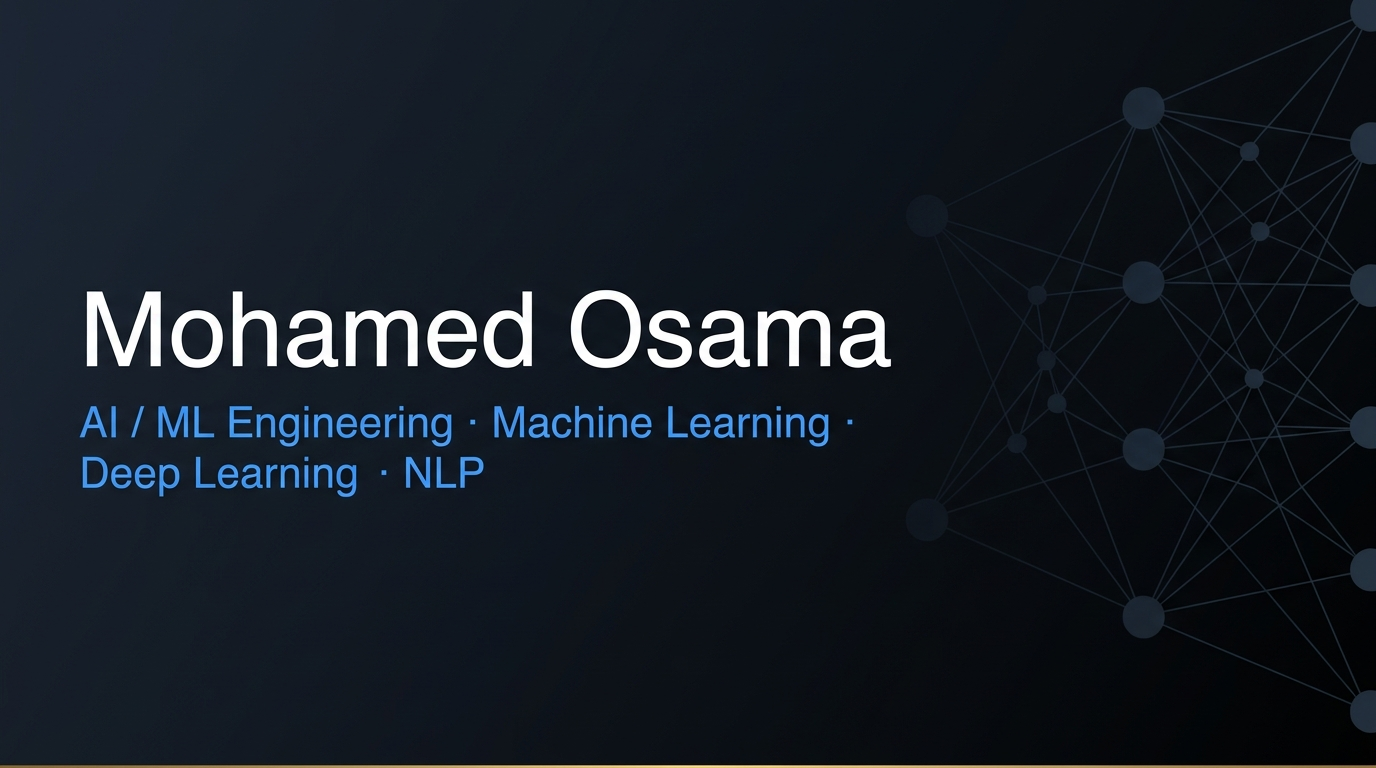
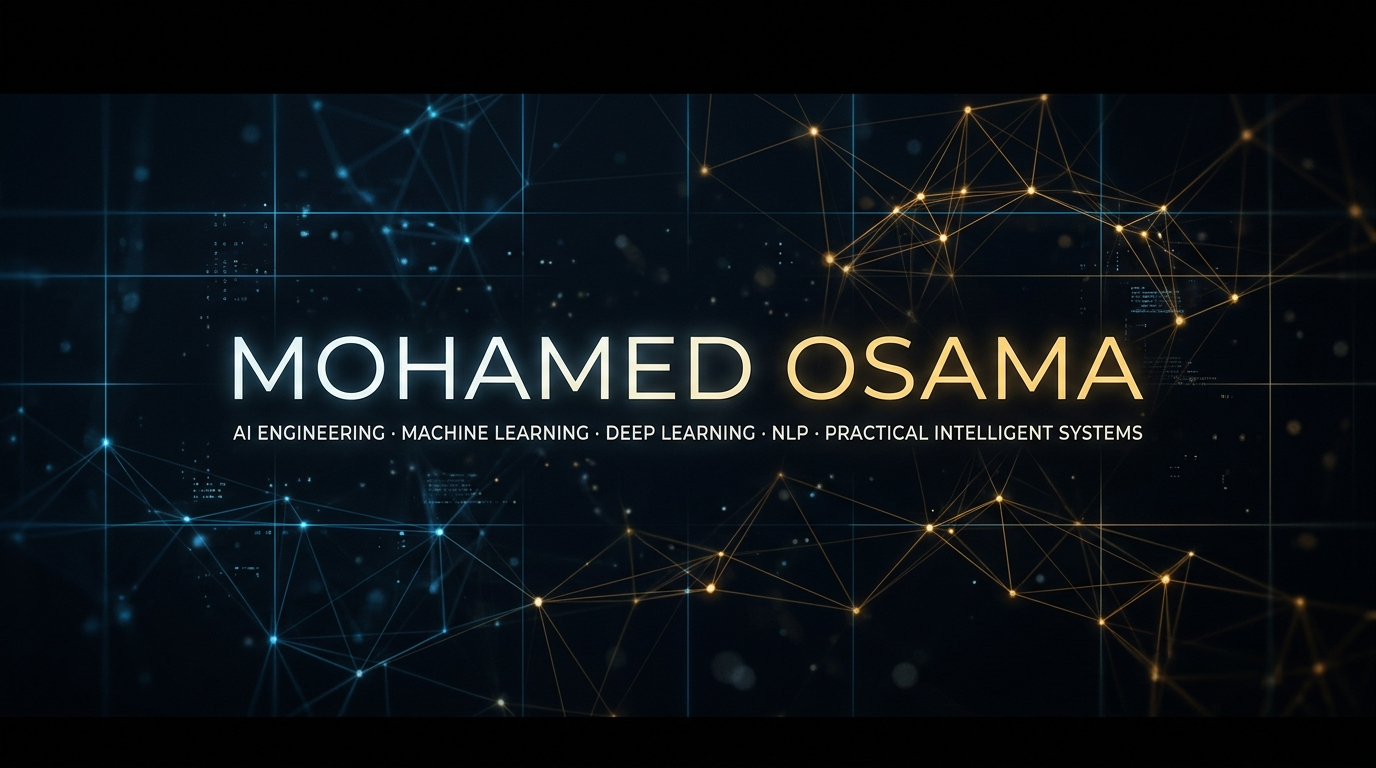
feat: redesign profile README with GitSkins Cinematic framework and high-priority FactoryMind spotlight

diff --git a/README.md b/README.md
@@ -1,101 +1,157 @@
 <div align="center">
 
-# Mohamed Osama
+# 🎬 A CINEMATIC AI ENGINEERING PROFILE · MOHAMED OSAMA
 
-**Applied AI & Machine Learning Engineer**  
-*Computer Vision · Industrial AI & Digital Twins · Predictive ML Engineering · Full-Stack Systems*
-
-[![LinkedIn](https://img.shields.io/badge/LinkedIn-Mohamed_Osama-0A66C2?logo=linkedin&logoColor=white)](https://www.linkedin.com/in/mohamedosama-ai)
-[![Portfolio](https://img.shields.io/badge/Portfolio-Interactive_Showcase-6C5CE7?logo=googlechrome&logoColor=white)](https://mohamed-osama-ai-portfol-ae5i1zi.gamma.site)
-[![GitHub](https://img.shields.io/badge/GitHub-Mohamed--Osama--ai7-181717?logo=github)](https://github.com/Mohamed-Osama-ai7)
-[![Email](https://img.shields.io/badge/Email-Contact-EA4335?logo=gmail&logoColor=white)](mailto:mohamedosama17122006@gmail.com)
+**Applied AI & Machine Learning Engineer · Cairo, Egypt**  
+*Designing Practical Intelligent Systems · Industrial Cognitive Architectures · Calibrated Predictive ML*
 
 <br/>
 
-<img src="assets/banner.jpg" alt="Mohamed Osama Banner" width="100%" style="border-radius: 8px;" />
+[![LinkedIn](https://img.shields.io/badge/LinkedIn-Mohamed_Osama-0A66C2?style=flat-square&logo=linkedin&logoColor=white)](https://www.linkedin.com/in/mohamedosama-ai)
+[![Portfolio](https://img.shields.io/badge/Interactive_Portfolio-Live_Showcase-F59E0B?style=flat-square&logo=googlechrome&logoColor=white)](https://mohamed-osama-ai-portfol-ae5i1zi.gamma.site)
+[![GitHub](https://img.shields.io/badge/GitHub-Mohamed--Osama--ai7-181717?style=flat-square&logo=github&logoColor=white)](https://github.com/Mohamed-Osama-ai7)
+[![Email](https://img.shields.io/badge/Email-Contact_Direct-38BDF8?style=flat-square&logo=gmail&logoColor=white)](mailto:mohamedosama17122006@gmail.com)
+
+<br/>
+
+<img src="assets/banner.jpg" alt="Mohamed Osama Cinematic Banner" width="100%" style="border-radius: 6px; border: 1px solid #1E293B;" />
 
 </div>
 
----
+<br/>
 
-### 💡 Executive Profile
+<div align="center">
+─────── ◇ ───────
+</div>
 
-I engineer end-to-end artificial intelligence and machine learning platforms built for mission-critical operations. My work spans the full intelligence lifecycle — from mathematical problem formulation, sensor telemetry ingestion, and signal DSP to leak-free feature engineering, calibrated multi-model ensembles, SHAP explainability, and containerized microservice architectures.
+## 🎬 The Point of View
 
-Key focus areas:
-- **Industrial Decision Intelligence**: Cognitive digital twin architectures, IIoT telemetry streaming, and predictive asset degradation modeling.
-- **Enterprise Risk & Predictive Analytics**: Calibrated risk engines, payment delay forecasting, and customer retention systems.
-- **Explainable AI (XAI)**: SHAP/tree attribution, isotonic calibration, and deterministic decision playbooks.
-- **Production ML Systems**: Containerized pipelines, FastAPI inference microservices, and interactive Streamlit analytics consoles.
+> *"Engineering applied AI systems that convert noisy operational telemetry, unstructured text, and enterprise risk signals into calibrated, deterministic decision engines."*
 
----
+```text
+[SYSTEM_ID]   : MOHAMED-OSAMA-AI7
+[ROLE]        : Applied AI & Machine Learning Engineer
+[LOCATION]    : Cairo, Egypt
+[PILLARS]     : Machine Learning · Deep Learning · Natural Language Processing · Industrial AI
+[PARADIGM]    : Leak-Free Preprocessing · Explainable Attribution (SHAP) · Reproducible Pipelines
+```
 
-## 🚀 Featured Flagship Platforms
+<div align="center">
+─────── ◇ ───────
+</div>
 
-### 1. [InvoiceGuard AI](https://github.com/Mohamed-Osama-ai7/Inovice-Guard-ai)
-**Enterprise Receivables Intelligence & Cash Flow Risk Engine**  
-Deploys five concurrent scikit-learn pipelines (binary default classification, days-late regression, NLP dispute extraction, repurchase prediction, and customer revenue forecasting). Features SHAP explainability trees, a multi-signal composite risk score, deterministic P1–P4 action playbooks, and RBAC authentication.
+## 🏭 Leading Production: FactoryMind-CDT
 
-[![Live App](https://img.shields.io/badge/Live_App-Streamlit-FF4B4B?logo=streamlit&logoColor=white)](https://inovice-guard-ai-17.streamlit.app/)
-[![Repository](https://img.shields.io/badge/GitHub-Inovice--Guard--ai-181717?logo=github)](https://github.com/Mohamed-Osama-ai7/Inovice-Guard-ai)  
+### [FactoryMind-CDT](https://github.com/Mohamed-Osama-ai7/FactoryMind-CDT) — Cognitive Digital Twin Framework
+*Architectural Specification & Conceptual Engineering Design (Active R&D)*
+
+An industrial AI framework designed to bridge continuous IIoT sensor telemetry with predictive maintenance intelligence and closed-loop decision reasoning in high-throughput manufacturing plants.
+
+```
+  ┌───────────┐      ┌──────────────┐      ┌────────────┐      ┌───────────┐      ┌───────────┐
+  │   SENSE   │ ───► │  UNDERSTAND  │ ───► │  SIMULATE  │ ───► │  DECIDE   │ ───► │   LEARN   │
+  └───────────┘      └──────────────┘      └────────────┘      └───────────┘      └───────────┘
+   Multi-sensor       Anomaly Scoring       Degradation          Prescriptive      Closed-Loop
+    Telemetry           & Signatures         & RUL Curve         Intervention       Feedback
+```
+
+* **SENSE**: Edge aggregation and DSP filtering for multi-modal telemetry streams (vibration accelerometry, thermal transients, acoustic emissions, pressure).
+* **UNDERSTAND**: Real-time spectral FFT feature extraction coupled with unsupervised anomaly scoring (Isolation Forests / Autoencoder reconstruction error) to detect micro-faults prior to critical failure.
+* **SIMULATE**: Dynamic physics-informed degradation trajectories and Weibull hazard estimation to project Remaining Useful Life (RUL) under variable operational loads.
+* **DECIDE**: Prescriptive maintenance dispatching calibrated against ISO 10816 vibration severity standards, routing automated work orders with root-cause attribution.
+* **LEARN**: Continuous feedback loop updating sensor baseline thresholds using post-intervention maintenance logs.
+
+[![Repository](https://img.shields.io/badge/GitHub-FactoryMind--CDT-181717?style=flat-square&logo=github)](https://github.com/Mohamed-Osama-ai7/FactoryMind-CDT)
+[![Domain](https://img.shields.io/badge/Domain-Industrial_AI_%26_Digital_Twins-38BDF8?style=flat-square)](https://github.com/Mohamed-Osama-ai7/FactoryMind-CDT)
+[![Status](https://img.shields.io/badge/Status-Architectural_R%26D-F59E0B?style=flat-square)](https://github.com/Mohamed-Osama-ai7/FactoryMind-CDT)
+
+`Python` `Industrial AI` `Edge ML` `Signal DSP (FFT)` `Digital Twins` `OPC-UA / MQTT` `TimescaleDB`
+
+<div align="center">
+─────── ◇ ───────
+</div>
+
+## 📽 Featured Reel
+
+### 1. [InvoiceGuard AI](https://github.com/Mohamed-Osama-ai7/Inovice-Guard-ai) — Enterprise Receivables Intelligence
+**Multi-Signal Financial Risk Engine & Interactive Decision Console**  
+Predicts commercial late-payment risk, quantifies revenue exposure, and extracts customer sentiment from unstructured communication history.
+* **Architecture**: Deploys five concurrent scikit-learn models (binary payment risk classification, days-late regression, dispute NLP, repurchase scoring, and future revenue estimation).
+* **Explainability & Controls**: Full SHAP TreeExplainer feature attribution for every prediction, multi-signal composite risk scoring, deterministic P1–P4 action playbooks, and PBKDF2-HMAC authenticated RBAC security.
+
+[![Live App](https://img.shields.io/badge/Live_App-Streamlit-FF4B4B?style=flat-square&logo=streamlit&logoColor=white)](https://inovice-guard-ai-17.streamlit.app/)
+[![Repository](https://img.shields.io/badge/GitHub-Inovice--Guard--ai-181717?style=flat-square&logo=github)](https://github.com/Mohamed-Osama-ai7/Inovice-Guard-ai)  
 `Python` `scikit-learn` `XGBoost` `SHAP` `FastAPI` `Streamlit` `PBKDF2-HMAC`
 
 ---
 
-### 2. [FactoryMind-CDT](https://github.com/Mohamed-Osama-ai7/FactoryMind-CDT)
-**Cognitive Digital Twin for Industrial Decision Intelligence**  
-Built around the **SENSE · UNDERSTAND · SIMULATE · DECIDE · LEARN** closed-loop paradigm for discrete and continuous manufacturing. Combines vibration DSP (FFT, envelope analysis), multivariate anomaly detection (Isolation Forests / Autoencoders), Weibull degradation modeling, and automated work-order dispatch.
+### 2. [Enterprise Customer Churn AI](https://github.com/Mohamed-Osama-ai7/enterprise-customer-churn-ai) — Retention Analytics Engine
+**14-Model Classical ML Benchmark & Production Diagnostic Platform**  
+End-to-end customer churn prediction platform built to test, calibrate, and serve classical ML algorithms without deep learning overhead.
+* **Benchmarking**: Rigorously benchmarked 14 algorithms — **Logistic Regression Champion (81.4% Accuracy, 0.834 ROC-AUC, 69.9% Precision)**, **Stacking Meta-Ensemble (80.4% Accuracy, 0.828 ROC-AUC)**, LDA, and Gradient Boosting ensembles.
+* **Leak-Free Engineering**: `RobustScaler` preprocessing for skewed billing distributions, `ColumnTransformer` encapsulation, automated business ratios (`ChargesPerTenure`), and unsupervised K-Means customer persona segmentation.
+* **Production Serving**: Interactive Streamlit diagnostic console for single-customer simulation and batch CSV scoring, containerized with Docker & Docker-Compose and validated with GitHub Actions CI/CD.
 
-[![Repository](https://img.shields.io/badge/GitHub-FactoryMind--CDT-181717?logo=github)](https://github.com/Mohamed-Osama-ai7/FactoryMind-CDT)  
-`Python` `Industrial AI` `Edge ML` `Signal Processing` `Digital Twins` `OPC-UA`
-
----
-
-### 3. [Enterprise Customer Churn AI](https://github.com/Mohamed-Osama-ai7/enterprise-customer-churn-ai)
-**End-to-End Retention Platform & 14-Model ML Benchmark**  
-Industrial machine learning pipeline comparing 14 classical estimators (Logistic Regression, Stacking Meta-Learner, AdaBoost, Extra Trees, Gradient Boosting). Implements leak-free `ColumnTransformer` preprocessing with `RobustScaler`, unsupervised K-Means customer persona segmentation, and an interactive diagnostic Streamlit simulator with Docker orchestration.
-
-[![Repository](https://img.shields.io/badge/GitHub-enterprise--customer--churn--ai-181717?logo=github)](https://github.com/Mohamed-Osama-ai7/enterprise-customer-churn-ai)  
-`Python` `scikit-learn` `Stacking Ensembles` `Docker` `Streamlit` `CI/CD`
+[![Repository](https://img.shields.io/badge/GitHub-enterprise--customer--churn--ai-181717?style=flat-square&logo=github)](https://github.com/Mohamed-Osama-ai7/enterprise-customer-churn-ai)
+[![Framework](https://img.shields.io/badge/Stack-scikit--learn_%7C_Docker_%7C_Streamlit-38BDF8?style=flat-square)](https://github.com/Mohamed-Osama-ai7/enterprise-customer-churn-ai)  
+`Python` `scikit-learn` `Stacking Meta-Learner` `Docker` `Streamlit` `GitHub Actions`
 
 ---
 
-### 4. [Promise Guard](https://github.com/Mohamed-Osama-ai7/promise-guard)
-**Corporate Commitment Tracking & Sentiment Risk Engine**  
-Natural language processing platform analyzing executive statements and enterprise commitments. Combines TF-IDF vectorization, transformer-based RoBERTa sentiment modeling, and Random Forest risk classification to extract deliverables, deadlines, and delivery confidence scores.
+### 3. [Promise Guard](https://github.com/Mohamed-Osama-ai7/promise-guard) — Corporate Commitment Risk Engine
+**NLP Analysis & Transformer-Based Delivery Scoring**  
+Analyzes executive commitments and enterprise statements to extract deliverables, deadlines, and delivery confidence scores.
+* **NLP Pipeline**: Combines TF-IDF text vectorization, transformer-based RoBERTa sentiment modeling, and a Random Forest risk classifier to evaluate corporate accountability across historical quarters.
+* **Interface**: Interactive Streamlit monitoring dashboard tracking multi-quarter delivery confidence.
 
-[![Repository](https://img.shields.io/badge/GitHub-promise--guard-181717?logo=github)](https://github.com/Mohamed-Osama-ai7/promise-guard)  
+[![Repository](https://img.shields.io/badge/GitHub-promise--guard-181717?style=flat-square&logo=github)](https://github.com/Mohamed-Osama-ai7/promise-guard)  
 `Python` `NLP` `RoBERTa` `Transformers` `scikit-learn` `Streamlit`
 
----
+<div align="center">
+─────── ◇ ───────
+</div>
 
-## 🛠 Technical Stack & Competencies
+## 🎨 Production Palette
 
-| Domain | Technologies & Frameworks |
-| :--- | :--- |
-| **Machine Learning** | scikit-learn, XGBoost, LightGBM, CatBoost, Stacking/Voting Ensembles, Isotonic Calibration |
-| **Deep Learning & NLP** | PyTorch, HuggingFace Transformers, RoBERTa, TF-IDF, Semantic Entity Extraction |
-| **Model Explainability** | SHAP (TreeExplainer / KernelExplainer), Feature Importance Attribution, Permutation Importance |
-| **Serving & APIs** | FastAPI, Pydantic v2, RESTful Microservices, Streamlit, Uvicorn |
-| **Data Engineering** | Pandas, NumPy, SciPy, Polars, ColumnTransformers, Point-in-Time Feature Engineering |
-| **Industrial / Edge AI** | Signal Processing (FFT, Wavelets), Vibration Severity Analysis (ISO 10816), MQTT, OPC-UA |
-| **DevOps & Infrastructure**| Docker, Docker Compose, GitHub Actions, Linux, Git, Virtual Environments |
-| **Full-Stack & Databases**| Angular, TypeScript, Node.js, Express.js, MongoDB, TimescaleDB, PostgreSQL |
+A focused, verified engineering toolkit chosen for mathematical rigor and operational reliability:
 
----
+```text
+MACHINE LEARNING     · scikit-learn · XGBoost · LightGBM · CatBoost · Stacking / Voting Ensembles · Isotonic Calibration
+DEEP LEARNING & NLP  · PyTorch · HuggingFace Transformers · RoBERTa · TF-IDF · Entity Extraction
+MODEL EXPLAINABILITY · SHAP (TreeExplainer / KernelExplainer) · Permutation Importance · Feature Attribution
+SERVING & DEVOPS     · FastAPI · Pydantic v2 · Streamlit · Docker · Docker-Compose · GitHub Actions CI/CD
+DATA & TELEMETRY     · Pandas · NumPy · SciPy · ColumnTransformers · Signal DSP (FFT) · OPC-UA / MQTT
+```
 
-## ⚙ Engineering Principles
+<div align="center">
+─────── ◇ ───────
+</div>
 
-- **Leakage Prevention**: Point-in-time transformations encapsulated within cross-validation folds; no data contamination across train/validation boundaries.
-- **Explainable by Design**: Every predictive inference provides interpretable attributions (SHAP values, feature ranking) for operational trust.
-- **Production Reproducibility**: Deterministic random seeding, explicit dependency pinning, and serialized pipeline artifacts.
-- **Security & Integrity**: Secure environment variable handling, zero credential leaks, and cryptographic authentication hashing.
+## 📊 Telemetry & System Activity
 
----
+<div align="center">
 
-## 📬 Let's Connect
+<img src="https://github-readme-stats.vercel.app/api?username=Mohamed-Osama-ai7&show_icons=true&bg_color=0a0d14&title_color=38bdf8&text_color=e2e8f0&icon_color=fbbf24&border_color=1e293b&hide_border=false" height="175" alt="GitHub Stats" />
+&nbsp;
+<img src="https://github-readme-stats.vercel.app/api/top-langs/?username=Mohamed-Osama-ai7&layout=compact&bg_color=0a0d14&title_color=38bdf8&text_color=e2e8f0&icon_color=fbbf24&border_color=1e293b&hide_border=false" height="175" alt="Top Languages" />
 
-- **LinkedIn**: [linkedin.com/in/mohamedosama-ai](https://www.linkedin.com/in/mohamedosama-ai)
-- **Portfolio**: [mohamed-osama-ai-portfol-ae5i1zi.gamma.site](https://mohamed-osama-ai-portfol-ae5i1zi.gamma.site)
-- **GitHub**: [github.com/Mohamed-Osama-ai7](https://github.com/Mohamed-Osama-ai7)
-- **Email**: [mohamedosama17122006@gmail.com](mailto:mohamedosama17122006@gmail.com)
+</div>
+
+<div align="center">
+─────── ◇ ───────
+</div>
+
+## 🎬 The Next Scene: Connect & Collaborate
+
+I build with engineering teams and technical leaders focused on solving tangible operational problems with explainable, production-ready machine learning.
+
+* **LinkedIn**: [linkedin.com/in/mohamedosama-ai](https://www.linkedin.com/in/mohamedosama-ai)
+* **Interactive Portfolio**: [mohamed-osama-ai-portfol-ae5i1zi.gamma.site](https://mohamed-osama-ai-portfol-ae5i1zi.gamma.site)
+* **GitHub**: [github.com/Mohamed-Osama-ai7](https://github.com/Mohamed-Osama-ai7)
+* **Email**: [mohamedosama17122006@gmail.com](mailto:mohamedosama17122006@gmail.com)
+
+<br/>
+
+<div align="center">
+<sub>Designed with the GitSkins Cinematic visual framework · Mohamed Osama © 2026</sub>
+</div>
